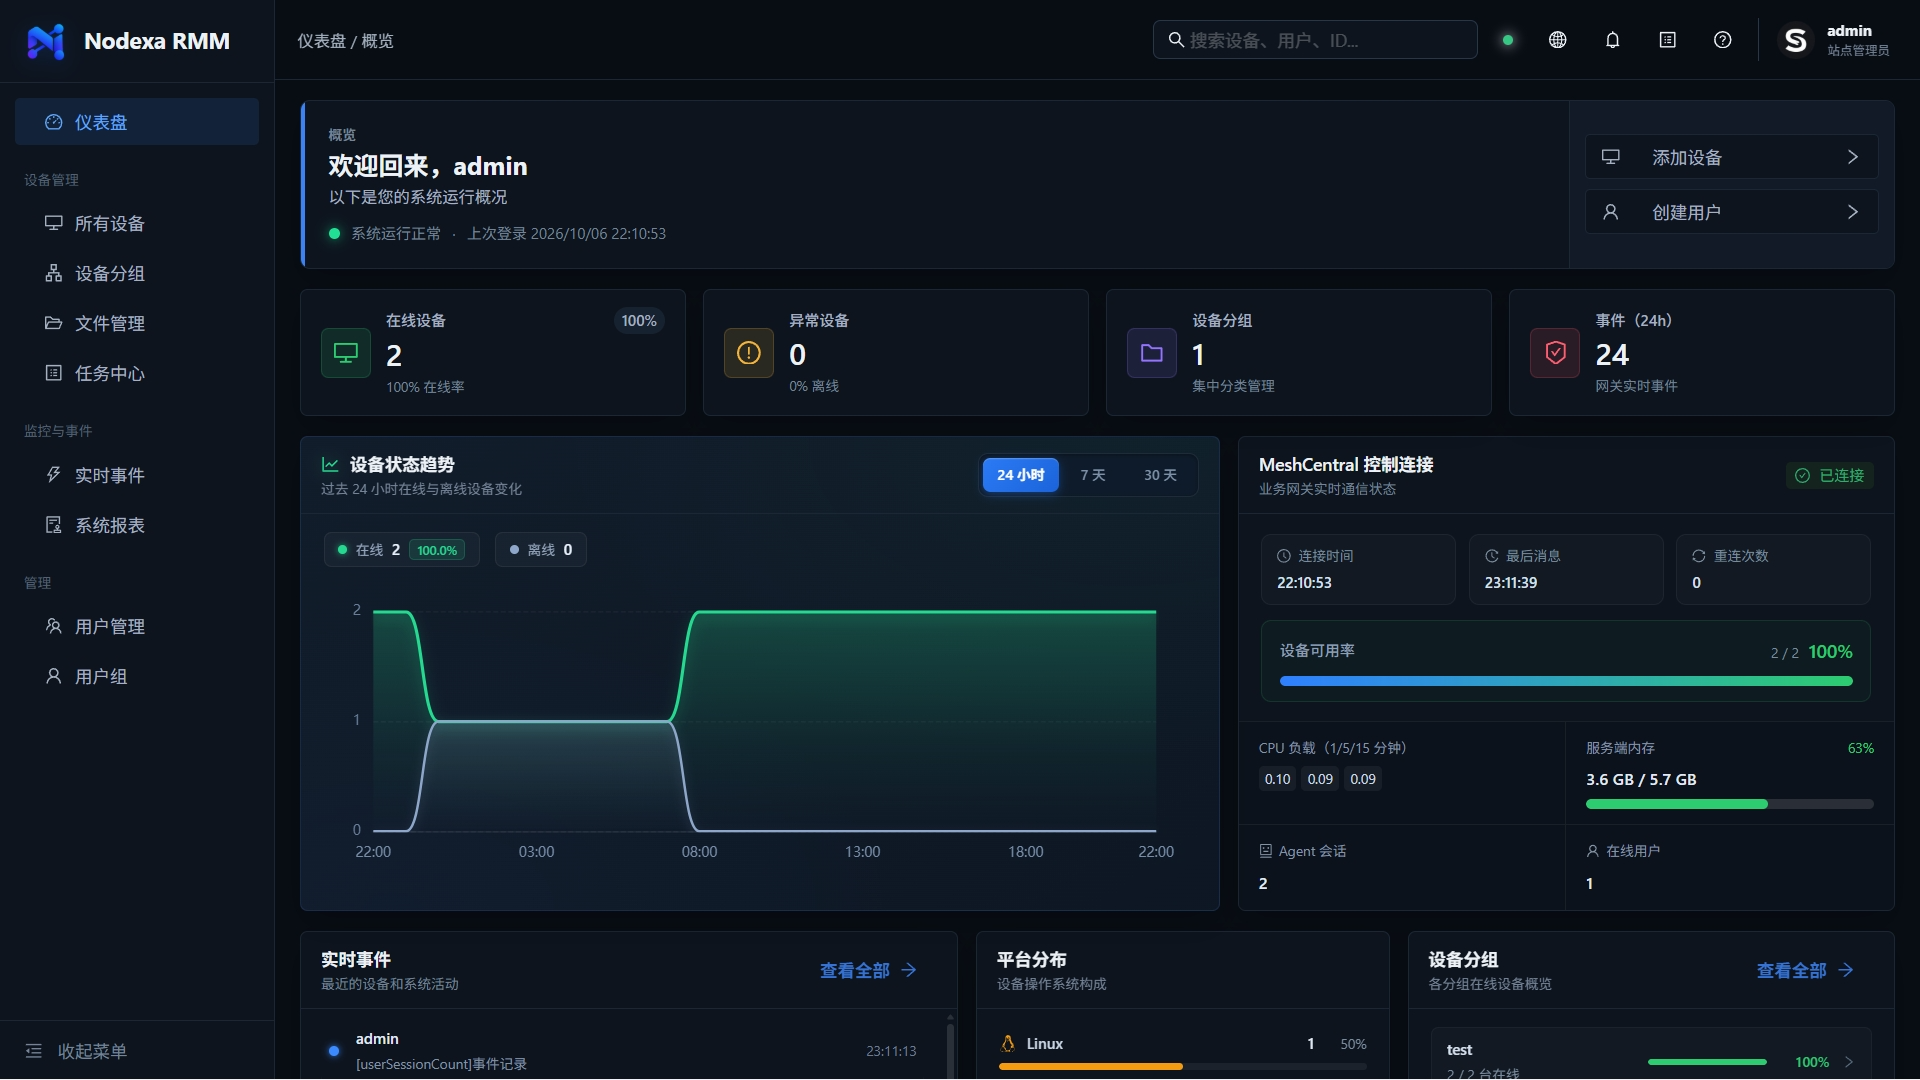
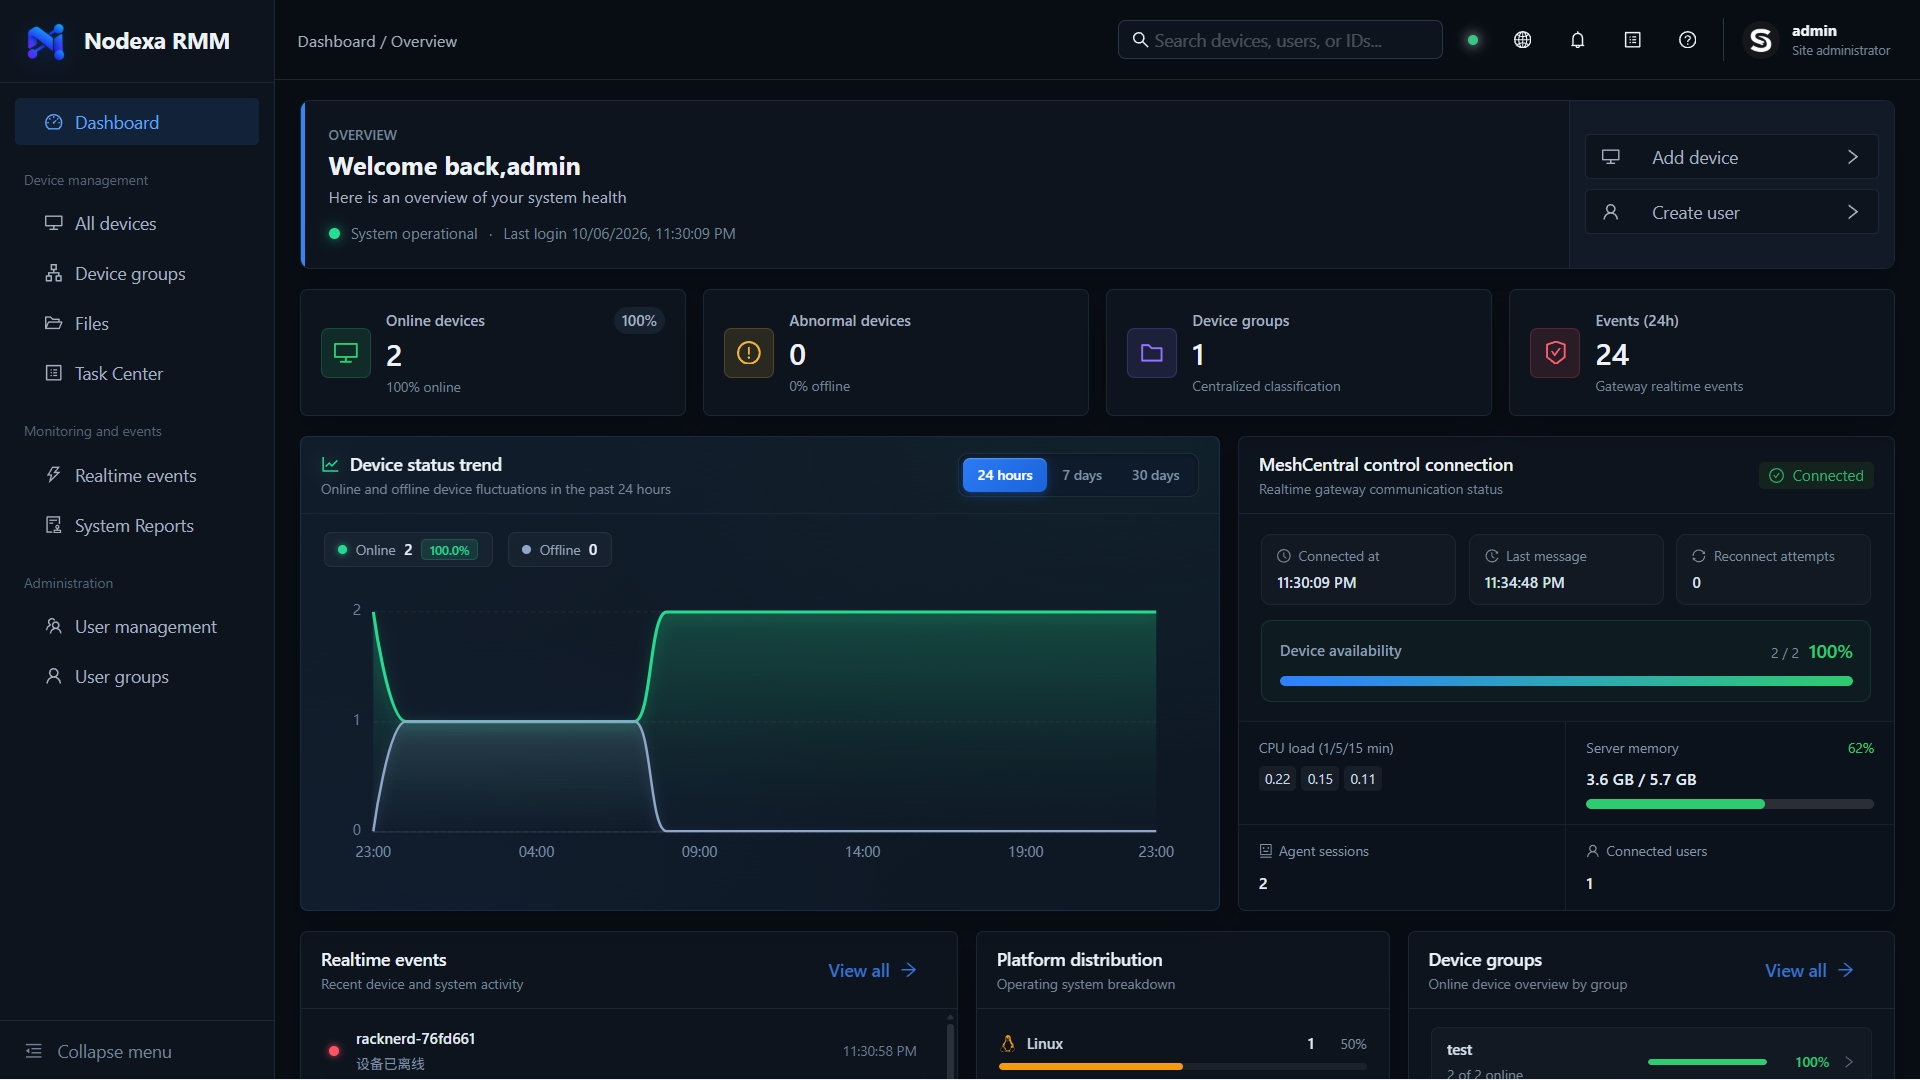
``` feat: 更新品牌名称为Nodex RMM
- 将MeshCentral相关文案替换为Nodex RMM
- 更新远程桌面连接丢失提示信息
- 更新终端连接丢失提示信息
- 更新权限描述中的品牌名称
- 更新简体中文语言包中的标题文案
- 更新备份码下载文件中的品牌名称
- 更新dashboard图片资源
```

diff --git a/apps/web/src/components/device-workspace/terminal/TerminalPanel.tsx b/apps/web/src/components/device-workspace/terminal/TerminalPanel.tsx
@@ -127,7 +127,7 @@ export function TerminalPanel({ device, meshCentralClient, controlConnected, ter
   }, [device.id, meshCentralClient]);
   useEffect(() => {
     if (controlConnected || (!sessionRef.current && !abortRef.current)) return;
-    disconnect('MeshCentral control connection was lost.');
+    disconnect('Nodex RMM control connection was lost.');
     setError(t('deviceWorkspace.terminal.gatewayDisconnected'));
   }, [controlConnected]);
   useEffect(() => {

diff --git a/apps/web/src/components/device-workspace/RemoteDesktopPanel.tsx b/apps/web/src/components/device-workspace/RemoteDesktopPanel.tsx
@@ -134,7 +134,7 @@ export const RemoteDesktopPanel = forwardRef<RemoteDesktopPanelHandle, RemoteDes
   }, [device.id, meshCentralClient]);
   useEffect(() => {
     if (!controlConnected && (sessionRef.current || abortRef.current)) {
-      disconnect('MeshCentral control connection was lost.');
+      disconnect('Nodex RMM control connection was lost.');
       setError(t('deviceWorkspace.remoteDesktop.gatewayDisconnected'));
     }
   }, [controlConnected]);

diff --git a/apps/web/src/pages/ProfilePage.tsx b/apps/web/src/pages/ProfilePage.tsx
@@ -593,7 +593,7 @@ export function ProfilePage() {
   const handleDownloadBackupCodes = () => {
     if (!backupCodes.length) return;
     const content = [
-      'MeshCentral Recovery Codes',
+      'Nodex RMM Recovery Codes',
       '========================',
       `Account: ${userInfo?.name ?? userInfo?.id ?? 'User'} (${userInfo?.id ?? ''})`,
       `Exported: ${new Date().toISOString()}`,

diff --git a/apps/web/src/features/users/sitePermissions.ts b/apps/web/src/features/users/sitePermissions.ts
@@ -68,7 +68,7 @@ export const SITE_PERMISSIONS: SitePermission[] = [
     labelKey: 'permissions.site.serverUpdate.label',
     descriptionKey: 'permissions.site.serverUpdate.description',
     label: '服务器更新',
-    description: '执行 MeshCentral 服务器更新',
+    description: '执行 Nodex RMM 服务器更新',
     category: 'server',
     risk: 'high',
   },

diff --git a/apps/web/src/i18n/locales/zh-CN.ts b/apps/web/src/i18n/locales/zh-CN.ts
@@ -811,7 +811,7 @@ export const zhCN = {
       connectedUsers: '在线用户',
     },
     gateway: {
-      title: 'MeshCentral 控制连接',
+      title: '服务器状态',
       description: '业务网关实时通信状态',
       address: '网关地址',
       connectedAt: '连接时间',
